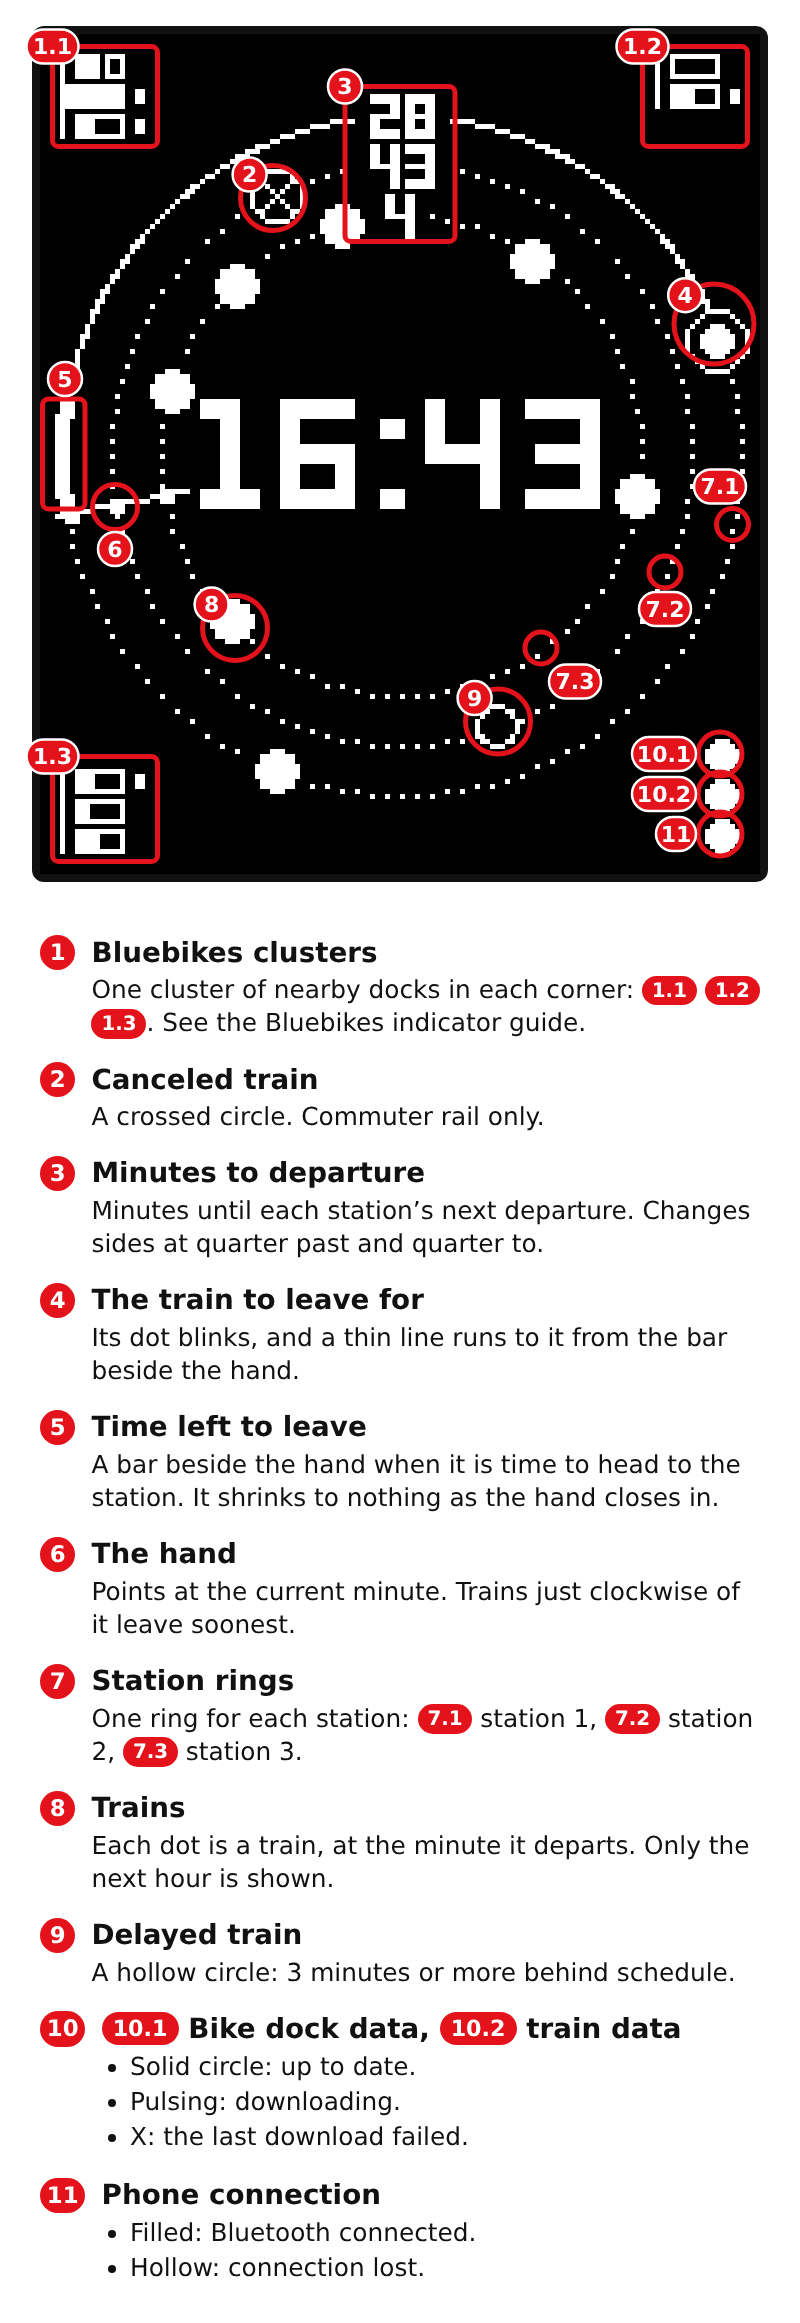
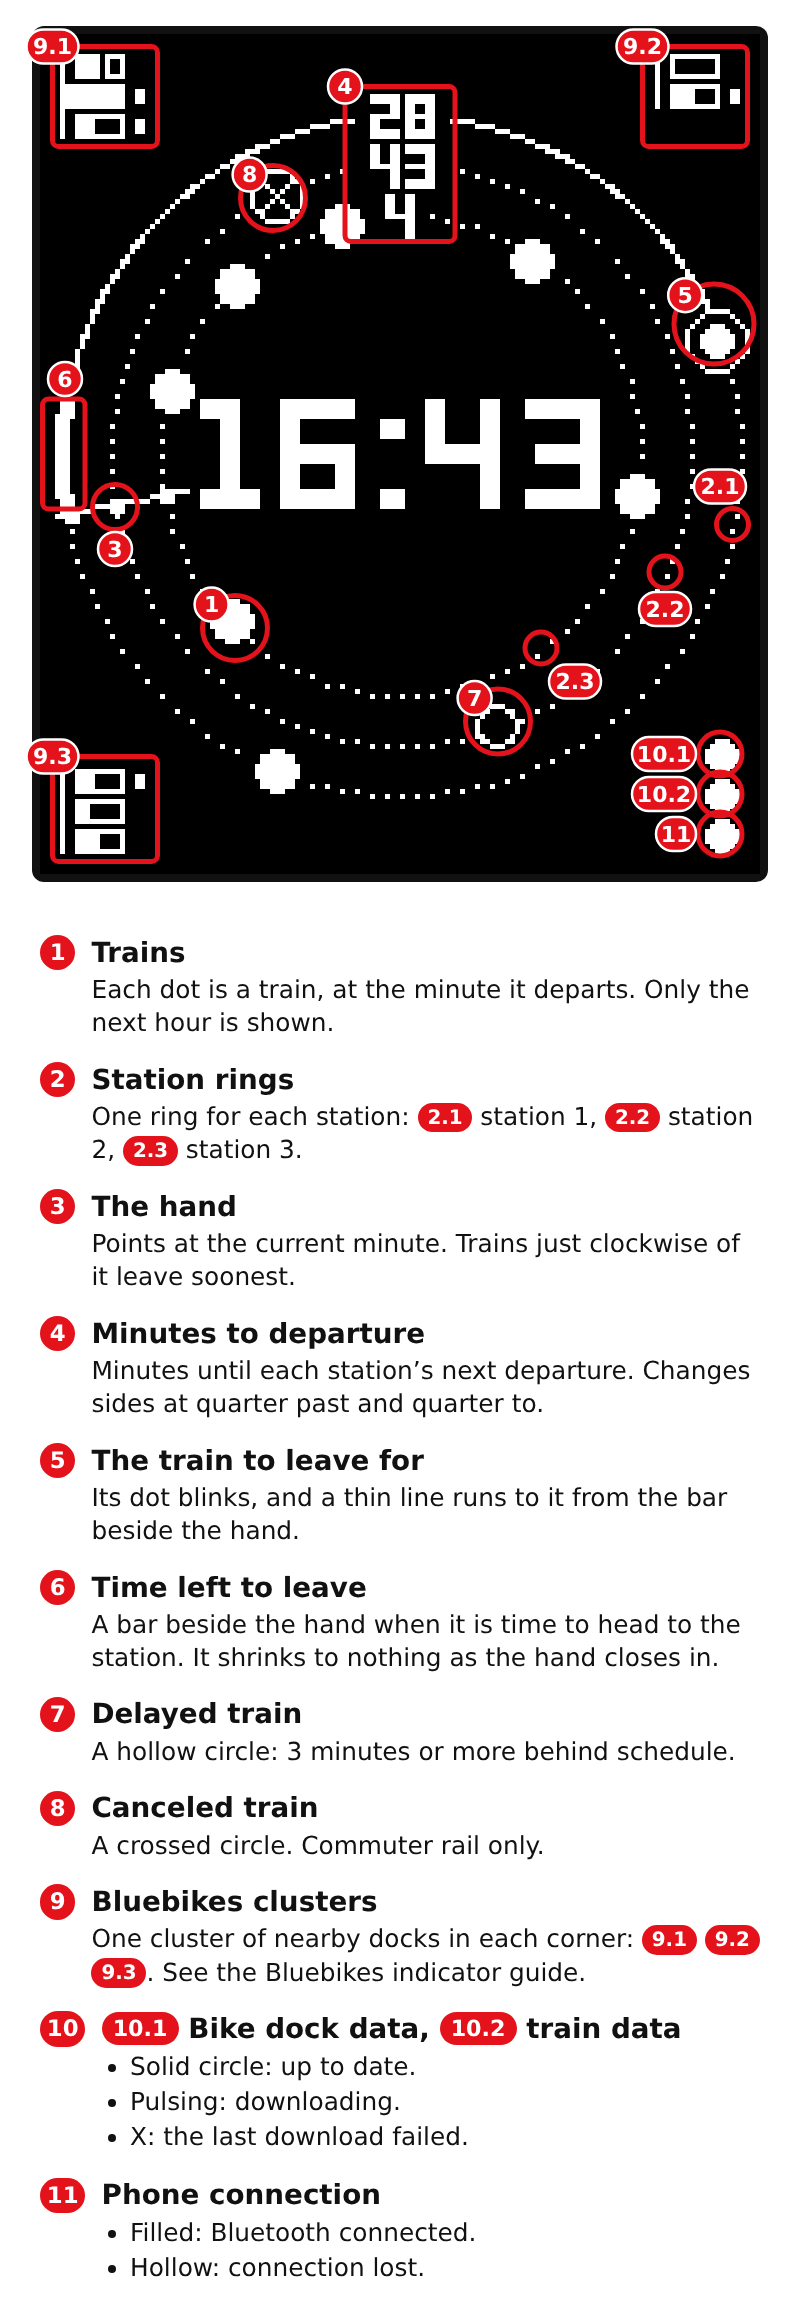
Narrow guides: entries ordered by importance (trains, train events, Bluebikes, connections)
Claude-Session: https://claude.ai/code/session_018kUttcRWv8pxFU9anVHVt8

diff --git a/docs/watch-guide.html b/docs/watch-guide.html
@@ -60,18 +60,18 @@ line:{name:'Line by line',img:'watch-screen.png',y0:224,items:[
  {side:'r',title:'Subway destination letter',body:'Shown where a line splits.<br>- Red Line southbound: A = Ashmont, B = Braintree.<br>- Green Line: B = Boston College, C = Cleveland Circle, D = Riverside, E = Heath Street.<br>- Other lines have no letter.',circ:[131,155.5,6.5]}
 ],
 mobile:[
- {title:'Bluebikes docks',body:'One shape for each dock. See the Bluebikes indicator guide.',marks:[{box:[1,-1.5,78,11]}]},
- {title:'{1} Bike dock data, {2} train data',body:'- Solid circle: up to date.<br>- Pulsing: downloading.<br>- X: the last download failed.',marks:[{circ:[115.5,6,5],badge:[115.5,15.5]},{circ:[126.5,6,5],badge:[126.5,15.5]}]},
- {title:'Phone connection',body:'- Filled: Bluetooth connected.<br>- Hollow: connection lost.',marks:[{circ:[137.5,6,5],badge:[139,15.5]}]},
  {title:'Train timetable header',body:'Station &gt; direction, set in the watchface settings.',marks:[{box:[1,45.5,106,58.5]}]},
  {title:'Departure countdown',body:'Minutes until the next train departs.',marks:[{box:[117,45.5,143,58.5]}]},
+ {title:'Subway timetables',body:'Subway trains are shown as minutes to departure.',marks:[{box:[11.5,145,35,164.5]}]},
+ {title:'Subway destination letter',body:'Shown where a line splits.<br>- Red Line southbound: A = Ashmont, B = Braintree.<br>- Green Line: the B, C, D or E branch.',marks:[{circ:[131,155.5,6.5],badge:[139,148]}]},
  {title:'Blinking departure warning',body:'A train time blinks when it is time to head to the station.',marks:[{box:[0.5,60.5,47.5,85.5]}]},
  {title:'Delayed train',body:'Hatched background: 3 minutes or more behind schedule. The time is the new estimate.',marks:[{box:[96.5,60.5,143.5,85.5]}]},
- {title:'Service alert',body:'An “!” means an alert is posted for this line. Its text scrolls across the header every minute.',marks:[{circ:[4,92.5,5.5],badge:[2,100.5]}]},
  {title:'Canceled train',body:'An X through the time. Commuter rail only.',marks:[{box:[0.5,101.5,48,126],badge:[48,126]}]},
+ {title:'Service alert',body:'An “!” means an alert is posted for this line. Its text scrolls across the header every minute.',marks:[{circ:[4,92.5,5.5],badge:[2,100.5]}]},
  {title:'End of service',body:'No more trains are scheduled for the rest of the service day.',marks:[{box:[52,104,143.5,123]}]},
- {title:'Subway timetables',body:'Subway trains are shown as minutes to departure.',marks:[{box:[11.5,145,35,164.5]}]},
- {title:'Subway destination letter',body:'Shown where a line splits.<br>- Red Line southbound: A = Ashmont, B = Braintree.<br>- Green Line: the B, C, D or E branch.',marks:[{circ:[131,155.5,6.5],badge:[139,148]}]}
+ {title:'Bluebikes docks',body:'One shape for each dock. See the Bluebikes indicator guide.',marks:[{box:[1,-1.5,78,11]}]},
+ {title:'{1} Bike dock data, {2} train data',body:'- Solid circle: up to date.<br>- Pulsing: downloading.<br>- X: the last download failed.',marks:[{circ:[115.5,6,5],badge:[110,15.5]},{circ:[126.5,6,5],badge:[124,15.5]}]},
+ {title:'Phone connection',body:'- Filled: Bluetooth connected.<br>- Hollow: connection lost.',marks:[{circ:[137.5,6,5],badge:[139,15.5]}]}
 ]},
 board:{name:'Departure board',img:'screen-guide-board.png',y0:250,items:[
  {side:'l',top:1,title:'Bluebikes clusters',body:'Each stack is a cluster of nearby Bluebikes docks, chosen in the watchface settings, and each bar is one dock. A bar fills from the left with the share of dock slots holding a bike. A dot to the right of a bar means e-bikes are available.',box:[94.5,1,133.5,22]},
@@ -87,15 +87,15 @@ board:{name:'Departure board',img:'screen-guide-board.png',y0:250,items:[
  {side:'r',title:'Delayed train',body:'If a train is marked delayed (3 minutes or more behind schedule), its line is hatched. The time shown is the new estimated departure.',box:[0.5,102.5,143.5,123.5],ty:940}
 ],
 mobile:[
+ {title:'Departure time',body:'When each train leaves. Every train from your stations is in one list, soonest first.',marks:[{box:[0.5,37,38,56.5]}]},
+ {title:'Destination',body:'Where the train is going, shortened to fit. An “!” in front means an alert is posted for its line.',marks:[{box:[44.5,81,119,100.5]}]},
+ {title:'Minutes to departure',body:'Minutes until the train departs.',marks:[{box:[122,37,143.5,56.5]}]},
+ {title:'Blinking departure warning',body:'The whole line blinks when it is time to head to the station.',marks:[{box:[0.5,146.5,143.5,167.5]}]},
+ {title:'Delayed train',body:'Hatched line: 3 minutes or more behind schedule. The time is the new estimate.',marks:[{box:[0.5,102.5,143.5,123.5]}]},
+ {title:'Canceled train',body:'Struck through, with CANC in place of the minutes. Commuter rail only.',marks:[{box:[0.5,58.5,143.5,79.5]}]},
  {title:'Bluebikes clusters',body:'Each stack is a cluster of nearby docks: {1} {2} {3}. See the Bluebikes indicator guide.',marks:[{box:[73.5,1,93.5,22]},{box:[94.5,1,113.5,22]},{box:[114.5,1,133.5,22]}]},
  {title:'{1} Bike dock data, {2} train data',body:'- Solid circle: up to date.<br>- Pulsing: downloading.<br>- X: the last download failed.',marks:[{circ:[139,4,4.4]},{circ:[139,12,4.4]}]},
- {title:'Phone connection',body:'- Filled: Bluetooth connected.<br>- Hollow: connection lost.',marks:[{circ:[139,20,4.4]}]},
- {title:'Departure time',body:'When each train leaves. Every train from your stations is in one list, soonest first.',marks:[{box:[0.5,37,38,56.5]}]},
- {title:'Minutes to departure',body:'Minutes until the train departs.',marks:[{box:[122,37,143.5,56.5]}]},
- {title:'Canceled train',body:'Struck through, with CANC in place of the minutes. Commuter rail only.',marks:[{box:[0.5,58.5,143.5,79.5]}]},
- {title:'Destination',body:'Where the train is going, shortened to fit. An “!” in front means an alert is posted for its line.',marks:[{box:[44.5,81,119,100.5]}]},
- {title:'Delayed train',body:'Hatched line: 3 minutes or more behind schedule. The time is the new estimate.',marks:[{box:[0.5,102.5,143.5,123.5]}]},
- {title:'Blinking departure warning',body:'The whole line blinks when it is time to head to the station.',marks:[{box:[0.5,146.5,143.5,167.5]}]}
+ {title:'Phone connection',body:'- Filled: Bluetooth connected.<br>- Hollow: connection lost.',marks:[{circ:[139,20,4.4]}]}
 ]},
 dial:{name:'Hour dial',img:'screen-guide-dial.png',y0:150,items:[
  {side:'l',title:'Bluebikes clusters',body:'Three corners each hold one cluster of nearby Bluebikes docks: cluster 1 top left, cluster 2 top right, cluster 3 bottom left. Each bar is one dock and fills from the left with the share of dock slots holding a bike.<br>- A solid bar touching the line is a full dock.<br>- A solid bar with one open cell has one free parking space.',box:[2.5,2.5,23.5,22.5]},
@@ -112,15 +112,15 @@ dial:{name:'Hour dial',img:'screen-guide-dial.png',y0:150,items:[
  {side:'r',title:'Phone connection',body:PHONE,circ:[136,160,4.4],ty:1165}
 ],
 mobile:[
- {title:'Bluebikes clusters',body:'One cluster of nearby docks in each corner: {1} {2} {3}. See the Bluebikes indicator guide.',marks:[{box:[2.5,2.5,23.5,22.5]},{box:[120.5,2.5,141.5,22.5]},{box:[2.5,144.5,23.5,165.5]}]},
+ {title:'Trains',body:'Each dot is a train, at the minute it departs. Only the next hour is shown.',marks:[{circ:[39,118.8,6.5]}]},
+ {title:'Station rings',body:'One ring for each station: {1} station 1, {2} station 2, {3} station 3.',marks:[{circ:[138.5,98.1,3.2],badge:[136,90.5]},{circ:[125,107.6,3.2],badge:[125,115]},{circ:[100.2,122.8,3.2],badge:[107,129.5]}]},
+ {title:'The hand',body:'Points at the current minute. Trains just clockwise of it leave soonest.',marks:[{circ:[15,94.6,4.5],badge:[15,103]}]},
  {title:'Minutes to departure',body:'Minutes until each station’s next departure. Changes sides at quarter past and quarter to.',marks:[{box:[61,10.5,83,41.5]}]},
- {title:'Canceled train',body:'A crossed circle. Commuter rail only.',marks:[{circ:[46.6,32.8,6.5]}]},
  {title:'The train to leave for',body:'Its dot blinks, and a thin line runs to it from the bar beside the hand.',marks:[{circ:[134.8,58,8]}]},
  {title:'Time left to leave',body:'A bar beside the hand when it is time to head to the station. It shrinks to nothing as the hand closes in.',marks:[{box:[0.5,73,9,95],badge:[5,69]}]},
- {title:'The hand',body:'Points at the current minute. Trains just clockwise of it leave soonest.',marks:[{circ:[15,94.6,4.5],badge:[15,103]}]},
- {title:'Station rings',body:'One ring for each station: {1} station 1, {2} station 2, {3} station 3.',marks:[{circ:[138.5,98.1,3.2],badge:[136,90.5]},{circ:[125,107.6,3.2],badge:[125,115]},{circ:[100.2,122.8,3.2],badge:[107,129.5]}]},
- {title:'Trains',body:'Each dot is a train, at the minute it departs. Only the next hour is shown.',marks:[{circ:[39,118.8,6.5]}]},
  {title:'Delayed train',body:'A hollow circle: 3 minutes or more behind schedule.',marks:[{circ:[91.6,137.5,6.5]}]},
+ {title:'Canceled train',body:'A crossed circle. Commuter rail only.',marks:[{circ:[46.6,32.8,6.5]}]},
+ {title:'Bluebikes clusters',body:'One cluster of nearby docks in each corner: {1} {2} {3}. See the Bluebikes indicator guide.',marks:[{box:[2.5,2.5,23.5,22.5]},{box:[120.5,2.5,141.5,22.5]},{box:[2.5,144.5,23.5,165.5]}]},
  {title:'{1} Bike dock data, {2} train data',body:'- Solid circle: up to date.<br>- Pulsing: downloading.<br>- X: the last download failed.',marks:[{circ:[136,144,4.4]},{circ:[136,152,4.4]}]},
  {title:'Phone connection',body:'- Filled: Bluetooth connected.<br>- Hollow: connection lost.',marks:[{circ:[136,160,4.4]}]}
 ]}
@@ -211,12 +211,11 @@ function narrow(key){
       if(m.box) m.b={x1:px(m.box[0]),y1:py(m.box[1]),x2:px(m.box[2]),y2:py(m.box[3])};
       else{var r=m.circ[2]*K;m.b={x1:px(m.circ[0])-r,y1:py(m.circ[1])-r,x2:px(m.circ[0])+r,y2:py(m.circ[1])+r,c:1};}
     });
-    // Marks within the same band of the screen count as level, so they read left to right.
-    e.at=Math.floor(Math.min.apply(null,e.marks.map(function(m){return (m.b.y1+m.b.y2)/2}))/110);
   });
-  // Numbered down the watch, top to bottom. An entry with several marks
-  // numbers them 1.1, 1.2 and so on, and names each one in its text with {1}, {2}.
-  entries.sort(function(a,b){return a.at-b.at||a.marks[0].b.x1-b.marks[0].b.x1});
+  // Entries are numbered in the order they are written: trains first, then what
+  // can happen to a train, then Bluebikes, then the connection dots. An entry
+  // with several marks numbers them 1.1, 1.2 and so on, and names each one in
+  // its text with {1}, {2}.
   function badge(x,y,text){
     var bw=Math.max(2*BR,16+text.length*12);
     x=Math.max(bw/2+2,Math.min(NW-bw/2-2,x));y=Math.max(BR+2,y);
